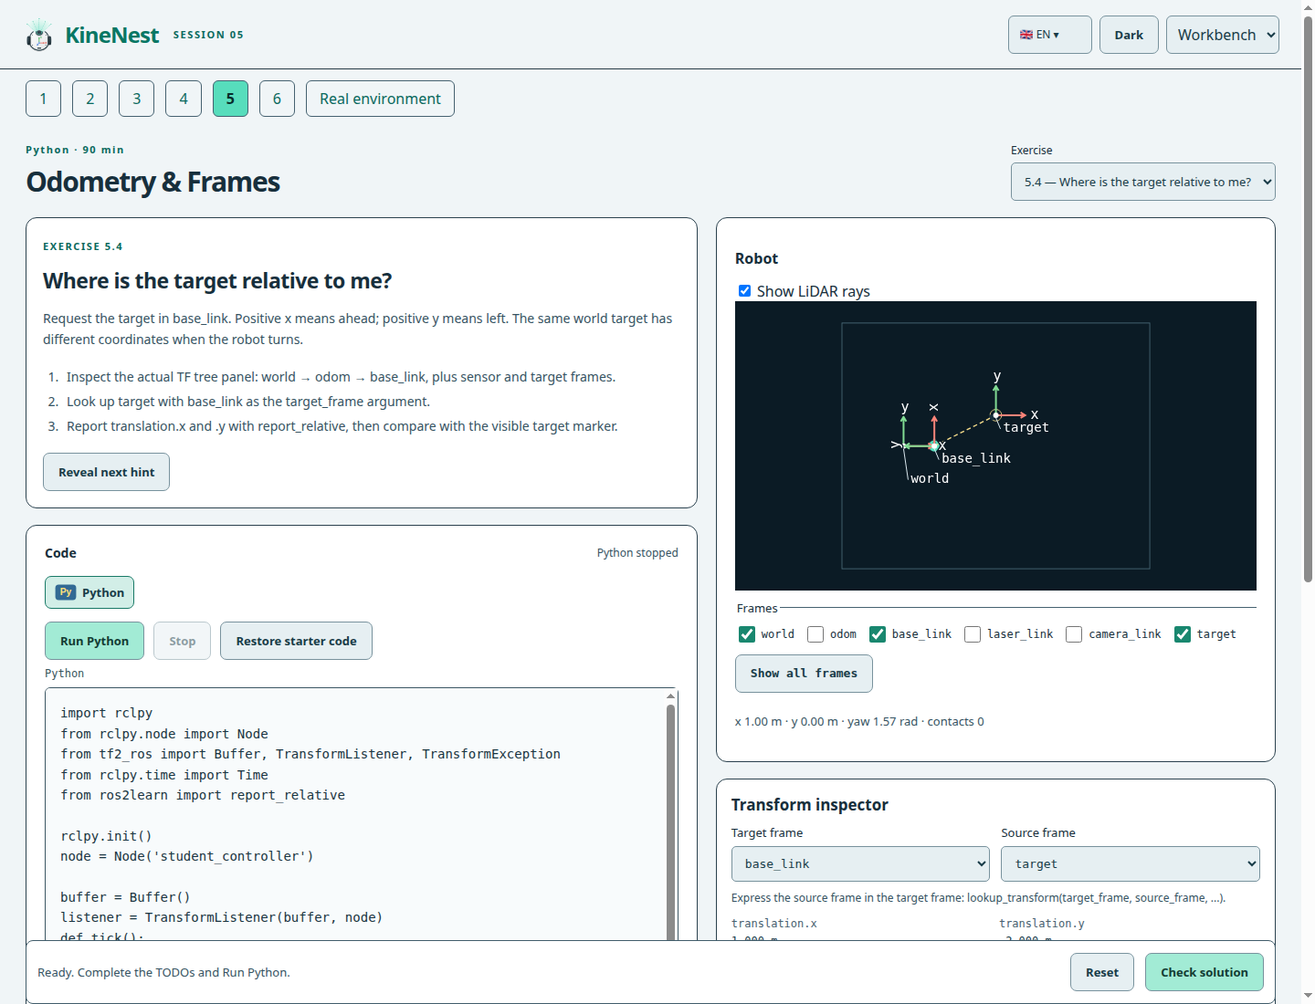
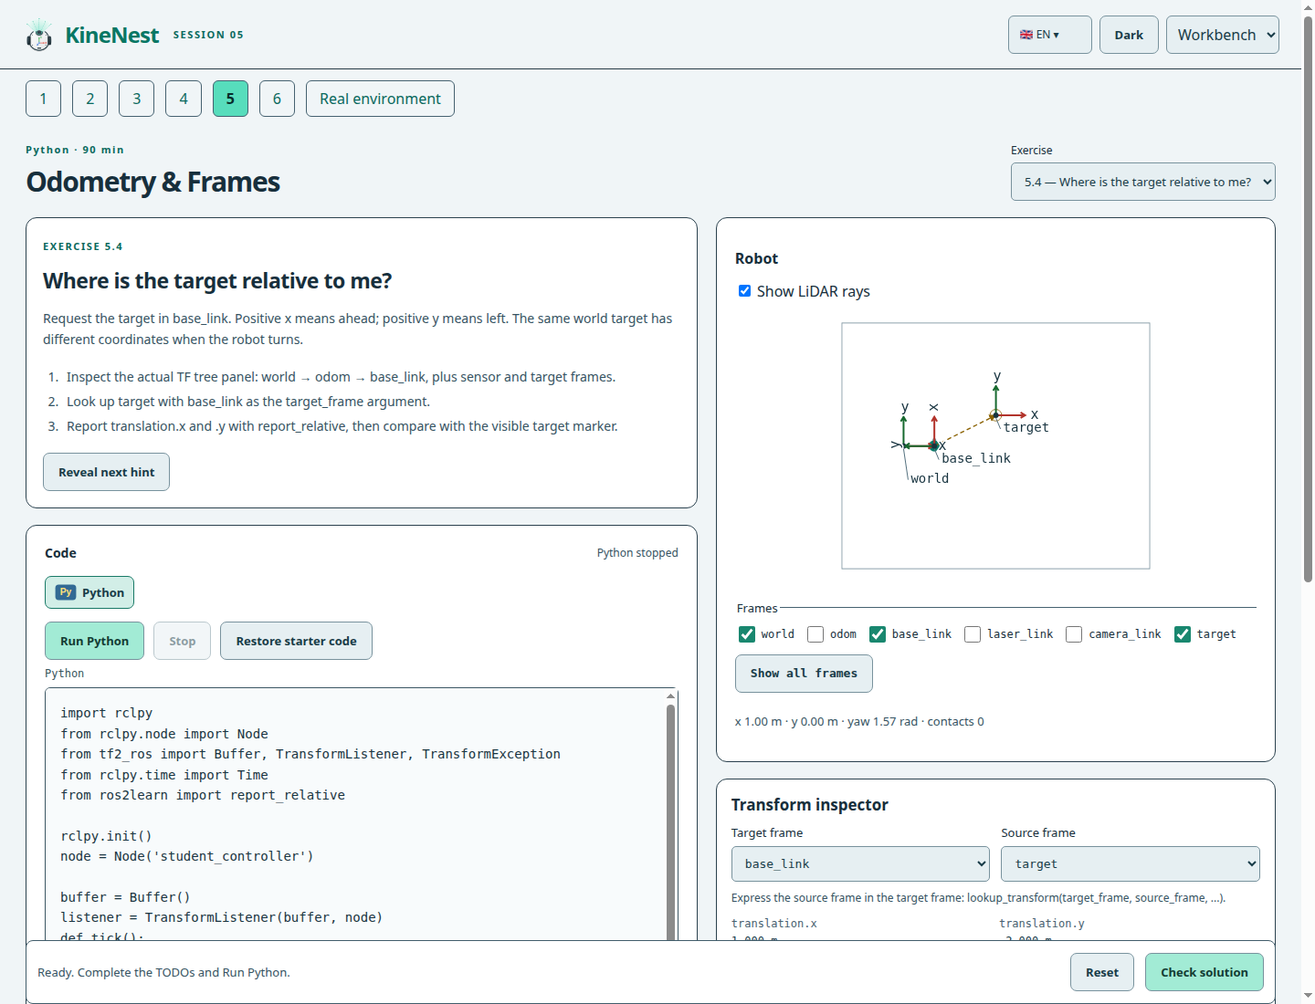
fix: match robot worlds and TF overlays to light theme

Changed region(s): [[0.5312, 0.2782, 0.9688, 0.5873]]

diff --git a/src/ui/session3.js b/src/ui/session3.js
@@ -16,7 +16,7 @@ import { inspectPixels } from '../simulator/camera.js';
 const $=id=>document.getElementById(id),runtime=new Runtime();runtime.enableSession3();
 const session=Number(location.pathname.match(/session-0([2-6])/)?.[1]??3);
 let catalog=[],selection=0;
-let tfView,workspace,cpp=null;
+let tfView,workspace,cpp=null,worldColors;
 let lesson,hints=0,epoch=0,testing=false,last=0,accumulator=0,lastFrame=-1,lastDetection=null;
 
 const output=text=>{const pre=$('python-output');pre.textContent=(pre.textContent+text+'\n').slice(-24000);pre.scrollTop=pre.scrollHeight;};
@@ -89,6 +89,13 @@ $('reset').addEventListener('click',reset);
 $('check').addEventListener('click',()=>{if(lesson.testScenes)testScenes();else showResults();});
 $('hint').addEventListener('click',()=>{if(hints>=localLesson().hints.length)return;const p=document.createElement('p');p.textContent=localLesson().hints[hints++];$('hints').append(p);$('hint').disabled=hints===localLesson().hints.length;});
 let leaveEditor=false;$('python-code').addEventListener('keydown',event=>{if(event.key==='Escape'){leaveEditor=true;return;}if(event.key==='Tab'&&!event.shiftKey&&!leaveEditor){event.preventDefault();const el=event.target;el.setRangeText('    ',el.selectionStart,el.selectionEnd,'end');}leaveEditor=false;});
+// Cache computed theme colors; do not read CSS on every sensor frame.
+function updateWorldColors(){
+  const styles=getComputedStyle(document.documentElement);
+  worldColors=Object.fromEntries(['background','boundary','obstacle','rays','goal','robot','heading'].map(key=>[key,styles.getPropertyValue('--world-'+key).trim()]));
+  if(lesson){lastFrame=-1;draw();}
+}
+window.addEventListener('themechange',updateWorldColors);
 function draw(){
   const image=runtime.camera;
   if(image&&lastFrame!==runtime.frameId){
@@ -100,12 +107,12 @@ function draw(){
     const r=runtime.robot,ctx=$('map').getContext('2d'),world=runtime.world,bounds=world?.bounds??{minX:-2,maxX:8,minY:-4,maxY:4};
     const width=$('map').width,height=$('map').height,scale=Math.min((width-60)/(bounds.maxX-bounds.minX),(height-60)/(bounds.maxY-bounds.minY)),ox=(width-scale*(bounds.maxX-bounds.minX))/2,oy=(height-scale*(bounds.maxY-bounds.minY))/2;
     const sx=x=>ox+(x-bounds.minX)*scale,sy=y=>height-oy-(y-bounds.minY)*scale;
-    ctx.fillStyle='#0b1b25';ctx.fillRect(0,0,width,height);ctx.strokeStyle='#517381';ctx.strokeRect(ox,oy,scale*(bounds.maxX-bounds.minX),scale*(bounds.maxY-bounds.minY));
-    for(const o of world?.obstacles??[]){ctx.fillStyle='#899aa8';ctx.fillRect(sx(o.x),sy(o.y+o.h),o.w*scale,o.h*scale);}
-    if($('show-rays').checked){const scan=runtime.latestScan??runtime.scan(),sensor=runtime.sensorSamples.lidar?.pose??sensorPose(r,'lidar');ctx.strokeStyle='#3b7969';ctx.beginPath();scan.ranges.forEach((d,i)=>{if(!Number.isFinite(d))return;const angle=sensor.yaw+scan.angle_min+i*scan.angle_increment,{x,y}=sensor;ctx.moveTo(sx(x),sy(y));ctx.lineTo(sx(x+d*Math.cos(angle)),sy(y+d*Math.sin(angle)));});ctx.stroke();}
+    ctx.fillStyle=worldColors.background;ctx.fillRect(0,0,width,height);ctx.strokeStyle=worldColors.boundary;ctx.strokeRect(ox,oy,scale*(bounds.maxX-bounds.minX),scale*(bounds.maxY-bounds.minY));
+    for(const o of world?.obstacles??[]){ctx.fillStyle=worldColors.obstacle;ctx.fillRect(sx(o.x),sy(o.y+o.h),o.w*scale,o.h*scale);}
+    if($('show-rays').checked){const scan=runtime.latestScan??runtime.scan(),sensor=runtime.sensorSamples.lidar?.pose??sensorPose(r,'lidar');ctx.strokeStyle=worldColors.rays;ctx.beginPath();scan.ranges.forEach((d,i)=>{if(!Number.isFinite(d))return;const angle=sensor.yaw+scan.angle_min+i*scan.angle_increment,{x,y}=sensor;ctx.moveTo(sx(x),sy(y));ctx.lineTo(sx(x+d*Math.cos(angle)),sy(y+d*Math.sin(angle)));});ctx.stroke();}
     for(const t of runtime.targets??[{x:5,y:0,color:[235,45,45]},{x:6,y:-2,color:[40,85,230]}]){ctx.fillStyle='rgb('+(t.color??[235,45,45]).join(',')+')';ctx.fillRect(sx(t.x)-6,sy(t.y)-6,12,12);}
-    if(lesson.goal){ctx.strokeStyle='#ffe490';ctx.beginPath();ctx.arc(sx(lesson.goal[0]),sy(lesson.goal[1]),8,0,Math.PI*2);ctx.stroke();}
-    ctx.save();ctx.translate(sx(r.x),sy(r.y));ctx.rotate(-r.yaw);ctx.fillStyle='#57ddbc';ctx.beginPath();ctx.arc(0,0,ROBOT_RADIUS*scale,0,Math.PI*2);ctx.fill();ctx.strokeStyle='#163d48';ctx.beginPath();ctx.moveTo(0,0);ctx.lineTo(ROBOT_RADIUS*scale,0);ctx.stroke();ctx.restore();for(const [name,mount]of Object.entries(SENSORS)){const p=sensorPose(r,name);ctx.fillStyle=name==='lidar'?'#b5fff0':'#e8f1ff';ctx.strokeStyle='#163d48';ctx.beginPath();if(name==='lidar')ctx.arc(sx(p.x),sy(p.y),1.7,0,Math.PI*2);else ctx.rect(sx(p.x)-1,sy(p.y)-1.3,2,2.6);ctx.fill();ctx.stroke();}tfView?.draw({sx,sy,scale,width,height});
+    if(lesson.goal){ctx.strokeStyle=worldColors.goal;ctx.beginPath();ctx.arc(sx(lesson.goal[0]),sy(lesson.goal[1]),8,0,Math.PI*2);ctx.stroke();}
+    ctx.save();ctx.translate(sx(r.x),sy(r.y));ctx.rotate(-r.yaw);ctx.fillStyle=worldColors.robot;ctx.beginPath();ctx.arc(0,0,ROBOT_RADIUS*scale,0,Math.PI*2);ctx.fill();ctx.strokeStyle=worldColors.heading;ctx.beginPath();ctx.moveTo(0,0);ctx.lineTo(ROBOT_RADIUS*scale,0);ctx.stroke();ctx.restore();for(const [name,mount]of Object.entries(SENSORS)){const p=sensorPose(r,name);ctx.fillStyle=name==='lidar'?'#b5fff0':'#e8f1ff';ctx.strokeStyle='#163d48';ctx.beginPath();if(name==='lidar')ctx.arc(sx(p.x),sy(p.y),1.7,0,Math.PI*2);else ctx.rect(sx(p.x)-1,sy(p.y)-1.3,2,2.6);ctx.fill();ctx.stroke();}tfView?.draw({sx,sy,scale,width,height});
     $('tf-tree').textContent=transforms(runtime).transforms.map(t=>t.header.frame_id+' → '+t.child_frame_id).join('\n');
     $('parameters').textContent=[...runtime.parameters].map(([node,params])=>node+'\n'+[...params].map(([k,v])=>'  '+k+': '+v).join('\n')).join('\n')||'(no declared parameters)';
     $('action-progress').textContent=[...runtime.goals.values()].slice(-3).map(g=>'Goal '+g.id+' · '+({2:'executing',4:'succeeded',5:'cancelled',6:'aborted'}[g.status])+' · '+(g.result?.result.final_distance??(r.distance-g.start)).toFixed(2)+' / '+g.distance+' m').join('\n')||'(no goals)';
@@ -115,7 +122,7 @@ function draw(){
 }
 function frame(now){if(last)accumulator+=Math.min((now-last)/1000,.1);last=now;while(accumulator>=1/60){if(testing)runtime.robot.command(0,0);runtime.step(1/60);if(session!==3)observeCourse(runtime,lesson);accumulator-=1/60;}draw();requestAnimationFrame(frame);}
 document.addEventListener('visibilitychange',()=>{last=0;accumulator=0;});
-setupPreferences();arrangeSession(session);tfView=createTFView(runtime,session);workspace=new CodeWorkspace({onRunCpp:()=>executeCode('cpp')});
+setupPreferences();updateWorldColors();arrangeSession(session);tfView=createTFView(runtime,session);workspace=new CodeWorkspace({onRunCpp:()=>executeCode('cpp')});
 const names=Object.fromEntries(SESSIONS.map((name,i)=>[i+1,name]));
 document.querySelector('.intro .eyebrow').textContent='Python · 90 min';
 $('session-title').textContent=names[session];$('session-tag').textContent='SESSION 0'+session;

diff --git a/index.html b/index.html
@@ -3,7 +3,7 @@
 <body><header><a class="brand" href="./">KineNest</a><span class="course" id="session-tag">SESSION 01</span></header>
 <nav class="session-nav" aria-label="Course sessions"><a href="./" aria-label="Session 1" aria-current="page">1</a><a href="./session-02.html" aria-label="Session 2">2</a><a href="./session-03.html" aria-label="Session 3">3</a><a href="./session-04.html" aria-label="Session 4">4</a><a href="./session-05.html" aria-label="Session 5">5</a><a href="./session-06.html" aria-label="Session 6">6</a><a href="./real-ros.html">Real environment</a></nav><main><div class="intro"><p data-product-tagline>Learn robotics by making things move.</p><p class="eyebrow">Session 1</p><h1>Nodes &amp; Topics</h1><p>6 sessions · Python · No installation</p></div>
 <div class="lab-grid"><section class="panel mission" aria-labelledby="mission-title"><div class="panel-head"><span class="eyebrow">Mission</span><span>Exercise 1.1</span></div><h2 id="mission-title">Loading lesson…</h2><p id="description"></p><ol id="steps"></ol><div class="hint-box"><button id="hint" disabled>Reveal next hint</button><div id="hints" aria-live="polite"></div></div></section>
-<section class="panel world" aria-labelledby="world-title"><div class="panel-head"><h2 id="world-title">Robot</h2><span id="motion-state">Ready</span></div><svg id="world" viewBox="0 0 640 360" role="img" aria-labelledby="world-label"><title id="world-label">Top-down robot world. Live position is shown below.</title><defs><pattern id="grid" width="40" height="40" patternUnits="userSpaceOnUse"><path d="M 40 0 L 0 0 0 40" fill="none" stroke="#243c48" stroke-width="1"/></pattern></defs><rect width="640" height="360" fill="#0d202b"/><rect width="640" height="360" fill="url(#grid)"/><g id="scene"><path id="trail" stroke="#57ddbc" stroke-width="2" stroke-dasharray="4 4" fill="none"/><circle cx="320" cy="180" r="5" fill="#69838e"/><g id="robot" transform="translate(320 180)"><rect x="-14" y="-20" width="26" height="8" rx="3" fill="#9bb0ba"/><rect x="-14" y="12" width="26" height="8" rx="3" fill="#9bb0ba"/><rect x="-18" y="-14" width="36" height="28" rx="8" fill="#57ddbc"/><path d="M 7 -6 L 17 0 L 7 6" stroke="#092d2b" stroke-width="3" fill="none"/></g></g><text x="18" y="338" fill="#aac0c9" font-size="12">Grid: 1 m · +x right · +y up</text></svg><div class="telemetry"><span>x <strong id="x">0.00 m</strong></span><span>y <strong id="y">0.00 m</strong></span><span>yaw <strong id="yaw">0.00 rad</strong></span><span>travel <strong id="distance">0.00 m</strong></span></div><p class="world-note">A Twist carries velocity, not position. Here, one command runs for 2 seconds, then the controller stops automatically.</p></section></div>
+<section class="panel world" aria-labelledby="world-title"><div class="panel-head"><h2 id="world-title">Robot</h2><span id="motion-state">Ready</span></div><svg id="world" viewBox="0 0 640 360" role="img" aria-labelledby="world-label"><title id="world-label">Top-down robot world. Live position is shown below.</title><defs><pattern id="grid" width="40" height="40" patternUnits="userSpaceOnUse"><path d="M 40 0 L 0 0 0 40" class="world-grid" fill="none" stroke="#243c48" stroke-width="1"/></pattern></defs><rect class="world-background" width="640" height="360" fill="#0d202b"/><rect width="640" height="360" fill="url(#grid)"/><g id="scene"><path id="trail" stroke="#57ddbc" stroke-width="2" stroke-dasharray="4 4" fill="none"/><circle class="world-origin" cx="320" cy="180" r="5" fill="#69838e"/><g id="robot" transform="translate(320 180)"><rect x="-14" y="-20" width="26" height="8" rx="3" fill="#9bb0ba"/><rect x="-14" y="12" width="26" height="8" rx="3" fill="#9bb0ba"/><rect class="robot-body" x="-18" y="-14" width="36" height="28" rx="8" fill="#57ddbc"/><path class="robot-heading" d="M 7 -6 L 17 0 L 7 6" stroke="#092d2b" stroke-width="3" fill="none"/></g></g><text class="world-caption" x="18" y="338" fill="#aac0c9" font-size="12">Grid: 1 m · +x right · +y up</text></svg><div class="telemetry"><span>x <strong id="x">0.00 m</strong></span><span>y <strong id="y">0.00 m</strong></span><span>yaw <strong id="yaw">0.00 rad</strong></span><span>travel <strong id="distance">0.00 m</strong></span></div><p class="world-note">A Twist carries velocity, not position. Here, one command runs for 2 seconds, then the controller stops automatically.</p></section></div>
 <section class="terminal-workspace" aria-labelledby="terminals-heading"><div class="terminal-toolbar"><div><h2 id="terminals-heading">Learning terminals</h2><p>One graph, multiple terminals. Observe in one; publish in another.</p></div><button id="add-terminal" disabled>+ New terminal</button></div><p class="terminal-guide">Use a second terminal to observe messages. Ctrl+C stops a stream.</p><div id="terminals"></div></section>
 <div class="actions"><p id="status" role="status">Loading lesson…</p><button id="reset" disabled>Reset</button><button id="check" class="primary" disabled>Check solution</button></div><section id="feedback" aria-live="polite" aria-label="Solution feedback" hidden></section>
 

diff --git a/tests/theme-browser.html b/tests/theme-browser.html
@@ -1,0 +1,53 @@
+<!doctype html><html><meta charset="utf-8"><title>KineNest world theme regression</title>
+<pre id="result">RUNNING</pre><img src="/hold" alt=""><iframe width="1440" height="1100"></iframe>
+<script type="module">
+const frame=document.querySelector('iframe'),out=document.getElementById('result');
+const wait=ms=>new Promise(resolve=>setTimeout(resolve,ms));
+const assert=(value,message)=>{if(!value)throw Error(message);};
+async function until(predicate){for(let i=0;i<200;i++){if(predicate())return;await wait(50);}throw Error('Page readiness timeout');}
+async function load(page){frame.src='../'+page;await new Promise(resolve=>frame.onload=resolve);await until(()=>frame.contentDocument?.getElementById('theme')&&frame.contentDocument?.getElementById('check')?.disabled===false);return frame.contentDocument;}
+const rgb=value=>value.match(/[\d.]+/g).slice(0,3).map(Number);
+const luminance=color=>rgb(color).map(n=>{n/=255;return n<=.04045?n/12.92:((n+.055)/1.055)**2.4;}).reduce((sum,n,i)=>sum+n*[.2126,.7152,.0722][i],0);
+const contrast=(a,b)=>{const x=luminance(a),y=luminance(b);return (Math.max(x,y)+.05)/(Math.min(x,y)+.05);};
+try{
+ localStorage.setItem('ros2learn-theme','dark');localStorage.setItem('ros2learn-language','en');
+ let d=await load('index.html');const style=el=>frame.contentWindow.getComputedStyle(el);
+ d.getElementById('theme').click();
+ assert(d.documentElement.dataset.theme==='light','Session 1 theme');
+ assert(style(d.querySelector('.world-background')).fill==='rgb(255, 255, 255)','Session 1 world is not white');
+ assert(style(d.querySelector('.world-grid')).stroke==='rgb(213, 224, 229)','Session 1 grid not themed');
+ assert(contrast(style(d.querySelector('.world-caption')).fill,'rgb(255, 255, 255)')>=4.5,'Session 1 caption contrast');
+ d=await load('index.html');assert(d.documentElement.dataset.theme==='light','Theme preference lost on navigation');
+ d.getElementById('theme').click();assert(style(d.querySelector('.world-background')).fill==='rgb(11, 27, 37)','Session 1 dark restore');
+ for(const session of [2,3,4,5,6]){
+  d=await load('session-0'+session+'.html');const $=id=>d.getElementById(id);
+  const map=$('map'),pixel=()=>[...map.getContext('2d').getImageData(0,0,1,1).data];
+  await until(()=>pixel()[3]===255);
+  const draft='# Theme switch keeps this student draft';$('python-code').value=draft;
+  const lesson=$('lesson-select').value,camera=$('camera').toDataURL(),pose=$('pose').textContent;
+  $('theme').click();
+  assert(pixel().join(',')==='255,255,255,255','Session '+session+' Canvas is not white immediately');
+  assert($('camera').toDataURL()===camera,'Theme changed camera pixels in Session '+session);
+  assert($('python-code').value===draft&&$('lesson-select').value===lesson&&$('pose').textContent===pose,'Theme changed exercise state');
+  if(session>=5){
+   const caption=style(d.querySelector('.frame-label')),axisX=style(d.querySelector('.axis-x')),axisY=style(d.querySelector('.axis-y'));
+   assert(contrast(caption.fill,'rgb(255, 255, 255)')>=4.5,'TF label contrast');
+   assert(caption.stroke==='rgb(255, 255, 255)','TF label halo should be white');
+   assert(contrast(axisX.stroke,'rgb(255, 255, 255)')>=3&&contrast(axisY.stroke,'rgb(255, 255, 255)')>=3,'TF axis contrast');
+   assert(style($('tf-vector')).stroke===style(d.querySelector('.relative-arrow')).fill,'TF arrowhead mismatch');
+  }
+  $('theme').click();assert(pixel().join(',')==='11,27,37,255','Session '+session+' Canvas dark restore');
+  assert($('camera').toDataURL()===camera,'Dark restore changed camera pixels');
+  if(session===5){
+   const terminal=d.querySelector('.terminal');terminal.querySelector('input').value='ros2 topic pub --rate 10 /cmd_vel geometry_msgs/msg/Twist "{linear: {x: 0.3}}"';terminal.querySelector('form').requestSubmit();
+   const x=()=>Number($('tf-spatial').querySelector('[data-frame="base_link"]').dataset.x);
+   const before=x();await until(()=>x()>before+.05);const moving=x();$('theme').click();
+   assert(x()===moving,'Theme moved/reset base_link');await until(()=>x()>moving+.05);
+   assert(terminal.querySelector('input').readOnly,'Theme stopped publishing');
+   $('reset').click();$('theme').click();
+  }
+ }
+ out.textContent='PASS: white SVG/Canvas worlds in all six sessions, readable grids/TF, unchanged camera pixels and drafts, continuous robot motion, dark restore and persisted theme';
+}catch(error){out.textContent='FAIL: '+error.message;}
+await fetch('/done',{method:'POST',body:out.textContent});
+</script></html>

diff --git a/src/ui/session3.css b/src/ui/session3.css
@@ -9,3 +9,13 @@ body[data-session] main{padding-top:16px}.intro{display:grid;grid-template-colum
 .code-languages{display:flex;gap:6px;margin:14px 0}.code-languages button{display:inline-flex;align-items:center;gap:6px;padding:6px 10px;min-height:36px}.code-languages button[aria-pressed="true"]{border-color:#57ddbc;background:#173d43}.code-editors{display:grid;gap:14px}.code-editors[data-mode="compare"]{grid-template-columns:minmax(0,1fr) minmax(0,1fr)}.code-pane{min-width:0}.code-pane>label{display:block;font:12px ui-monospace,monospace;margin:8px 0;color:#adc3cb}.code-pane textarea{width:100%;min-height:360px;font:13px/1.6 ui-monospace,monospace;background:#07151e;color:#e5eff3;border:1px solid #3c5661;border-radius:5px;resize:vertical;padding:15px;tab-size:4}.code-support{font-size:12px;color:#adbec7;margin:10px 0}.code-support:empty{display:none}[data-theme="light"] .code-pane textarea{background:#fff;color:#17343e}[data-theme="light"] .code-languages button[aria-pressed="true"]{background:#d2eee7;border-color:#187966}[data-theme="light"] .code-pane>label,[data-theme="light"] .code-support{color:#38565d}.workbench:has(.code-editors[data-mode="compare"]){grid-template-columns:minmax(0,1.45fr) minmax(0,1fr)}@media(max-width:1200px){.code-editors[data-mode="compare"]{grid-template-columns:1fr}}@media(max-width:950px){.workbench:has(.code-editors[data-mode="compare"]){grid-template-columns:1fr}}
 
 #cpp-code{height:390px;font:14px/1.6 ui-monospace,monospace;white-space:pre;overflow:auto}:root[data-theme=light] #cpp-code{background:#f8fbfc;color:#183440}
+
+/* Match frame annotations to the world, including white surfaces in light mode. */
+.axis-x{stroke:var(--frame-x)}
+.axis-y{stroke:var(--frame-y)}
+.axis-label,.frame-label{fill:var(--frame-text);stroke:var(--world-background)}
+.frame-dot{fill:var(--frame-text)}
+.frame-leader{stroke:var(--frame-leader)}
+#tf-vector{stroke:var(--frame-vector);color:var(--frame-vector)}
+:root[data-theme=light] .tree-edge{stroke:#567481}
+.relative-arrow{fill:var(--frame-vector)}

diff --git a/src/ui/style.css b/src/ui/style.css
@@ -18,3 +18,47 @@ body:not([data-session]) main{padding-top:16px}body:not([data-session]) .intro{m
 
 /* Keep native keyboard/select behavior; draw the compact label once, including color emoji. */
 #preferences .language-control{background:#203844;border:1px solid #52717d;border-radius:6px;min-height:42px}#preferences .language-control #language{opacity:0;width:90px;border:0;min-height:40px}#preferences .language-control:focus-within{outline:2px solid #57ddbc;outline-offset:3px}:root[data-theme=light] #preferences .language-control{background:#e6eff2;border-color:#78929d;color:#183c48}
+
+/* One palette for SVG worlds, Canvas worlds and spatial TF overlays. */
+:root{
+  --world-background:#0b1b25;
+  --world-grid:#243c48;
+  --world-boundary:#517381;
+  --world-obstacle:#899aa8;
+  --world-rays:#3b7969;
+  --world-goal:#ffe490;
+  --world-robot:#57ddbc;
+  --world-heading:#163d48;
+  --world-text:#aac0c9;
+  --world-origin:#69838e;
+  --frame-x:#ff8479;
+  --frame-y:#81db93;
+  --frame-text:#ffffff;
+  --frame-leader:#dae8ef;
+  --frame-vector:#f7de8c;
+}
+:root[data-theme=light]{
+  --world-background:#ffffff;
+  --world-grid:#d5e0e5;
+  --world-boundary:#718996;
+  --world-obstacle:#687f8c;
+  --world-rays:#459880;
+  --world-goal:#8a6100;
+  --world-robot:#087b69;
+  --world-heading:#ffffff;
+  --world-text:#284652;
+  --world-origin:#526f7d;
+  --frame-x:#b2332b;
+  --frame-y:#17692f;
+  --frame-text:#183440;
+  --frame-leader:#526f7d;
+  --frame-vector:#8a6100;
+}
+.world-background{fill:var(--world-background)}
+.world-grid{stroke:var(--world-grid)}
+.world-caption{fill:var(--world-text)}
+.world-origin{fill:var(--world-origin)}
+.robot-body{fill:var(--world-robot)}
+.robot-heading{stroke:var(--world-heading)}
+#trail{stroke:var(--world-robot)}
+#map{background:var(--world-background)}

diff --git a/src/ui/tf-view.js b/src/ui/tf-view.js
@@ -7,7 +7,7 @@ export function createTFView(runtime,session){
  const world=document.querySelector('.world-panel'),map=document.getElementById('map');map.width=720;map.height=400;
  const stage=document.createElement('div');stage.className='tf-stage';map.before(stage);stage.append(map);
  const spatial=svg('svg',{id:'tf-spatial',viewBox:'0 0 720 400',role:'img','aria-label':'Coordinate frames in the robot world','data-i18n-label':'Coordinate frames in the robot world'});stage.append(spatial);
- const defs=svg('defs'),marker=svg('marker',{id:'relative-arrow',viewBox:'0 0 10 10',refX:9,refY:5,markerWidth:6,markerHeight:6,orient:'auto-start-reverse'});marker.append(svg('path',{d:'M 0 0 L 10 5 L 0 10 z',fill:'currentColor'}));defs.append(marker);spatial.append(defs);
+ const defs=svg('defs'),marker=svg('marker',{id:'relative-arrow',viewBox:'0 0 10 10',refX:9,refY:5,markerWidth:6,markerHeight:6,orient:'auto-start-reverse'});marker.append(svg('path',{d:'M 0 0 L 10 5 L 0 10 z',class:'relative-arrow',fill:'currentColor'}));defs.append(marker);spatial.append(defs);
  const vector=svg('line',{id:'tf-vector','marker-end':'url(#relative-arrow)'});spatial.append(vector);
  const controls=document.createElement('fieldset');controls.className='frame-controls';controls.innerHTML='<legend>Frames</legend>';stage.after(controls);
  const ids=frameSnapshot(runtime).frames.map(f=>f.id),axes=new Map(),checks=new Map();

diff --git a/src/ui/preferences.js b/src/ui/preferences.js
@@ -25,7 +25,7 @@ export function setupPreferences(){
   document.querySelector('header').append(controls);
   let theme='dark',layout='split';try{theme=localStorage.getItem('ros2learn-theme')||theme;layout=localStorage.getItem('ros2learn-layout')||layout;}catch{}
   const save=(key,value)=>{try{localStorage.setItem('ros2learn-'+key,value);}catch{}};
-  const applyTheme=()=>{document.documentElement.dataset.theme=theme;document.getElementById('theme').textContent=theme==='dark'?translate('Light'):translate('Dark');};applyTheme();
+  const applyTheme=()=>{const previous=document.documentElement.dataset.theme;document.documentElement.dataset.theme=theme;document.getElementById('theme').textContent=theme==='dark'?translate('Light'):translate('Dark');if(previous!==theme)window.dispatchEvent(new Event('themechange'));};applyTheme();
   document.getElementById('theme').onclick=()=>{theme=theme==='dark'?'light':'dark';save('theme',theme);applyTheme();};
   const applyLayout=()=>{document.body.dataset.layout=layout;};applyLayout();document.getElementById('layout').value=layout;
   document.getElementById('layout').onchange=e=>{layout=e.target.value;save('layout',layout);applyLayout();};

diff --git a/docs/VALIDATION.md b/docs/VALIDATION.md
@@ -94,3 +94,16 @@ The seven-language engineering/editorial review preserves technical identifiers 
 Validated production asset version: 155e9188d07d. GitHub Pages publication is checked separately below.
 
 Publication check: HTTPS push could not authenticate (no noninteractive GitHub username/credential). Existing SSH access was also unavailable: strict host-key verification found no saved GitHub host key; no trust settings were changed. The release therefore remains local. Production still returns KineCourse and asset version 1d0fc154a99a, while the validated local build is 155e9188d07d. Publish with git push origin main from the authenticated maintainer terminal, then inspect the Pages workflow and the deployed version. The personal root website and repository name were not modified.
+
+
+## White world surfaces in light theme — 2026-10-03
+
+At the start of this follow-up, origin/main matched 8017b1c and the public Pages site returned KineNest with asset version 155e9188d07d. The earlier release was therefore published after the authentication failure recorded above.
+
+The SVG Session 1 grid and Canvas worlds in Sessions 2–6 now use shared CSS theme colors. Light mode has white world surfaces; grid lines, rays, robot heading, target vectors and TF annotations retain contrast. Theme changes redraw immediately without modifying camera pixel data or advancing/resetting the runtime. The TF vector arrowhead now uses the same color as its line.
+
+All 44 unit tests and the static build pass (asset version 56c72703b2a8). The new theme browser regression passes Chrome and Firefox for all six sessions, including actual Canvas pixels, SVG styles, label/axis contrast, unchanged camera pixels, preserved drafts/selection, continued CLI-driven motion, dark restoration and saved theme. Existing CLI and real-Python TF regressions also pass in both browsers. The theme regression is part of the regular course acceptance command and Pages CI.
+
+Captured 22 workstation views at desktop/laptop sizes; inspected light Session 1, light Session 2 LiDAR/Compare and light Session 5 TF. The updated Session 5 screenshot is in docs/media. Full course acceptance and publication results follow below.
+
+Full Chrome and Firefox course acceptance passed with this build: all 25 Python reference exercises, alternate solutions, negative controls, Stop/Reset, translations, Compare, TF, transitions and the added world-theme regression. No suite was skipped or retried.
